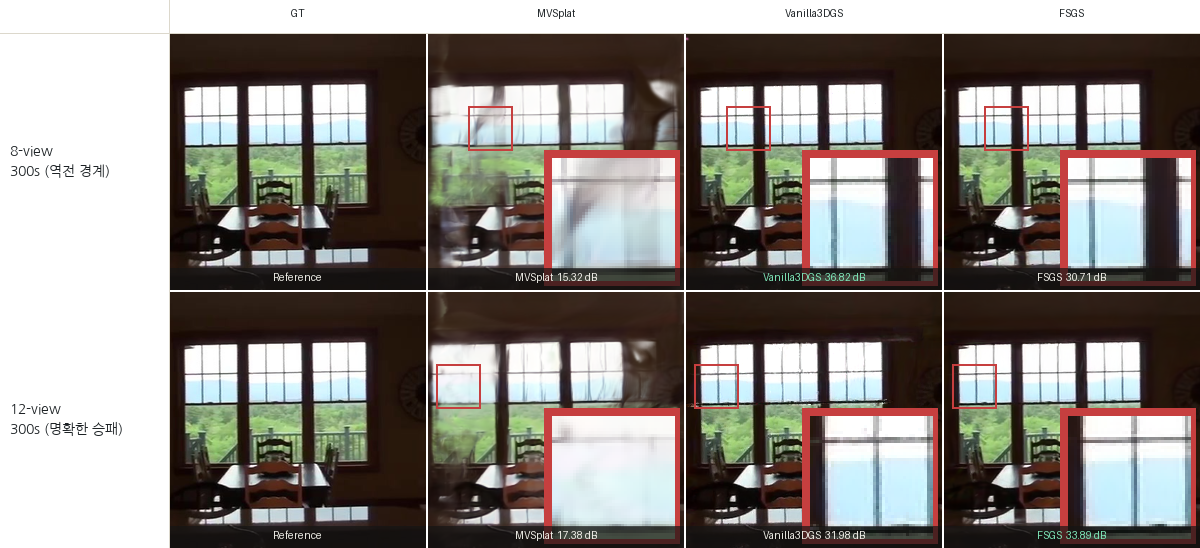
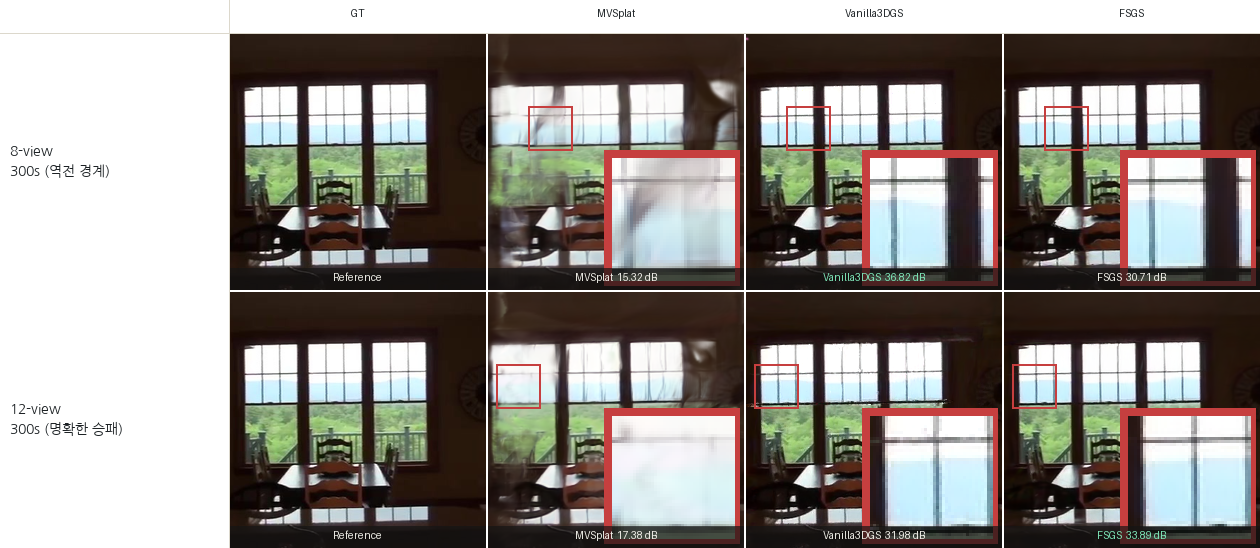
Extend qualitative comparison to DL3DV with ReSplat, merging it into the existing per-scene/feed-forward comparison
Adds a second qualitative figure (GT/DepthSplat/Vanilla3DGS/FSGS/ReSplat,
5 columns) on the same DL3DV scene/conditions used for the ReSplat
exploratory table, so the recurrent-refinement results sit visually
alongside the other four methods rather than existing only as aggregate
numbers. Reused the same target camera across all five renders (via a
saved camera.json) for a fair side-by-side; ReSplat's render required one
fresh cheap inference pass since the batch orchestrator only logged
scalar metrics, not images. Row-label column widened (170->230px) since
DL3DV's longer labels were clipping at the old width.

diff --git a/experiments/scripts/analysis/render_qualitative_dl3dv_resplat.py b/experiments/scripts/analysis/render_qualitative_dl3dv_resplat.py
@@ -1,0 +1,114 @@
+#!/usr/bin/env python3
+"""정성적 비교 그림(DL3DV)의 ReSplat 렌더 — `resplat` conda env에서 실행.
+
+`resplat_dl3dv_runner.py`와 같은 context view(v2 overlap summary)를 쓰되, target camera는
+`render_qualitative_dl3dv_gsplat.py`가 저장한 camera.json(=DepthSplat과 동일한 target)을
+그대로 써서 네 방법(DepthSplat/Vanilla3DGS/FSGS/ReSplat) 전부 같은 시점을 렌더링하게 만든다.
+ReSplat 추론 자체는 결정론적 단일 forward pass라 이것도 사실상 재실행 비용이 거의 없다
+(scene당 ~1.2초, `run_resplat_dl3dv.py`가 이미 계산한 것과 별개로 target camera만 다르게
+한 번 더 도는 것).
+"""
+
+from __future__ import annotations
+
+import argparse
+import json
+import sys
+from pathlib import Path
+
+import numpy as np
+import torch
+from PIL import Image
+
+REPO_ROOT = Path(__file__).resolve().parents[3]
+sys.path.insert(0, str(REPO_ROOT / "experiments/scripts/runners"))
+
+
+def save_png(tensor_chw: torch.Tensor, path: Path) -> None:
+    arr = (tensor_chw.clamp(0, 1).permute(1, 2, 0).detach().cpu().numpy() * 255).astype(np.uint8)
+    Image.fromarray(arr).save(path)
+
+
+def main() -> int:
+    parser = argparse.ArgumentParser()
+    parser.add_argument("--camera-json", required=True)
+    parser.add_argument("--overlap-summary", default="experiments/outputs/dl3dv_overlap_v2/all_scenes_summary.json")
+    parser.add_argument("--num-refine", type=int, default=4)
+    parser.add_argument("--checkpoint", default="/data/Re-feem/code/resplat/pretrained/resplat-base-dl3dv-256x448-view8-1934a04c.pth")
+    parser.add_argument("--resplat-repo", default="/data/Re-feem/code/resplat")
+    parser.add_argument("--out-dir", default="experiments/outputs/qualitative_comparison_dl3dv")
+    args = parser.parse_args()
+
+    import resplat_dl3dv_runner as R
+
+    resplat_repo = Path(args.resplat_repo)
+    R._add_repo_paths(resplat_repo)
+    device = torch.device("cuda" if torch.cuda.is_available() else "cpu")
+
+    cam_info = json.loads(Path(args.camera_json).read_text())
+    scene, view_count = cam_info["scene"], cam_info["view_count"]
+    width, height = cam_info["width"], cam_info["height"]
+    target_c2w = torch.tensor(cam_info["c2w"], dtype=torch.float32)
+    target_K = torch.tensor(cam_info["K_norm"], dtype=torch.float32)
+
+    overlap_data = json.loads(Path(args.overlap_summary).read_text())
+    row = next(r for r in overlap_data if r["scene"] == scene and r["view_count"] == view_count)
+    context_ids = row["context_indices"]
+
+    from dl3dv_dataset import load_metadata
+
+    scene_dir = Path("/data/Re-feem/datasets/dl3dv") / scene
+    meta = load_metadata(scene_dir)
+    context_images, context_c2w, context_K = R.load_frames(scene_dir, meta, context_ids)
+
+    Vc = len(context_ids)
+    all_c2w = torch.cat([context_c2w, target_c2w[None]], dim=0)
+    mid_idx = Vc // 2
+    all_c2w = R.camera_normalization(context_c2w[mid_idx : mid_idx + 1], all_c2w)
+    context_c2w_aligned = all_c2w[:Vc]
+    target_c2w_aligned = all_c2w[Vc:]
+
+    batch = {
+        "context": {
+            "image": context_images.unsqueeze(0).to(device),
+            "extrinsics": context_c2w_aligned.unsqueeze(0).to(device),
+            "intrinsics": context_K.unsqueeze(0).to(device),
+            "near": torch.full((1, Vc), R.NEAR, device=device),
+            "far": torch.full((1, Vc), R.FAR, device=device),
+            "index": torch.arange(Vc, device=device).unsqueeze(0),
+        },
+        "target": {
+            "extrinsics": target_c2w_aligned.unsqueeze(0).to(device),
+            "intrinsics": target_K.unsqueeze(0).unsqueeze(0).to(device),
+            "near": torch.full((1, 1), R.NEAR, device=device),
+            "far": torch.full((1, 1), R.FAR, device=device),
+        },
+        "scene": [scene],
+    }
+
+    encoder, decoder = R.build_model(resplat_repo, "dl3dv", args.checkpoint, args.num_refine, R.IMAGE_SHAPE, device)
+
+    with torch.no_grad():
+        gaussians_out = encoder(batch["context"], global_step=0, deterministic=False)
+        condition_features = gaussians_out.get("condition_features") if isinstance(gaussians_out, dict) else None
+        gaussians = gaussians_out["gaussians"] if isinstance(gaussians_out, dict) else gaussians_out
+        if args.num_refine > 0 and condition_features is not None:
+            refine_output = encoder.forward_update(
+                batch["context"], batch["target"], condition_features, gaussians, decoder, None,
+            )
+            gaussians = refine_output["gaussian"][-1]
+        output = decoder.forward(
+            gaussians, batch["target"]["extrinsics"], batch["target"]["intrinsics"],
+            batch["target"]["near"], batch["target"]["far"], R.IMAGE_SHAPE,
+        )
+
+    pred = output.color[0, 0].clamp(0, 1)
+    tag = f"{scene}_{view_count}view_{int(cam_info['budget'])}s"
+    out_dir = Path(args.out_dir)
+    save_png(pred, out_dir / f"{tag}_ReSplat.png")
+    print(f"[done] {tag}_ReSplat.png written")
+    return 0
+
+
+if __name__ == "__main__":
+    raise SystemExit(main())

diff --git a/experiments/scripts/analysis/render_qualitative_dl3dv_gsplat.py b/experiments/scripts/analysis/render_qualitative_dl3dv_gsplat.py
@@ -1,0 +1,114 @@
+#!/usr/bin/env python3
+"""정성적 비교 그림(DL3DV + ReSplat 확장판)의 GT/DepthSplat/Vanilla3DGS 3장을 만든다.
+
+`render_qualitative_gsplat.py`의 DL3DV 버전. `ps3` env에서 실행. 재실행 없음 — 이미 완료된
+C1-a 체크포인트만 다시 렌더링.
+"""
+
+from __future__ import annotations
+
+import argparse
+import json
+import math
+import sys
+from pathlib import Path
+
+import numpy as np
+import torch
+from PIL import Image
+
+sys.path.insert(0, str(Path(__file__).resolve().parents[1] / "core"))
+
+
+def save_png(tensor_chw: torch.Tensor, path: Path) -> None:
+    arr = (tensor_chw.clamp(0, 1).permute(1, 2, 0).cpu().numpy() * 255).astype(np.uint8)
+    Image.fromarray(arr).save(path)
+
+
+def render_gsplat(params: dict, viewmat: torch.Tensor, K: torch.Tensor, width: int, height: int, sh_degree: int) -> torch.Tensor:
+    from gsplat import rasterization
+
+    with torch.no_grad():
+        colors = torch.cat([params["sh0"], params["shN"]], dim=1)
+        render, _, _ = rasterization(
+            means=params["means"],
+            quats=params["quats"] / params["quats"].norm(dim=-1, keepdim=True),
+            scales=torch.exp(params["scales"]),
+            opacities=torch.sigmoid(params["opacities"]),
+            colors=colors,
+            viewmats=viewmat[None],
+            Ks=K[None],
+            width=width,
+            height=height,
+            sh_degree=sh_degree,
+            packed=False,
+        )
+    return render[0].permute(2, 0, 1).clamp(0.0, 1.0)
+
+
+def main() -> int:
+    parser = argparse.ArgumentParser()
+    parser.add_argument("--scene", required=True, help="DL3DV scene key(폴더명 hash)")
+    parser.add_argument("--view-count", type=int, required=True)
+    parser.add_argument("--budget", type=float, required=True)
+    parser.add_argument("--seed", type=int, default=0)
+    parser.add_argument("--target-index", type=int, default=0)
+    parser.add_argument("--c1a-root", default="experiments/outputs/dl3dv_c1a_main")
+    parser.add_argument("--out-dir", default="experiments/outputs/qualitative_comparison_dl3dv")
+    args = parser.parse_args()
+
+    device = torch.device("cuda" if torch.cuda.is_available() else "cpu")
+    c1a_root = Path(args.c1a_root)
+    tag = f"{args.scene}_{args.view_count}view_{int(args.budget)}s"
+    out_dir = Path(args.out_dir)
+    out_dir.mkdir(parents=True, exist_ok=True)
+
+    # --- 공용 target camera: DepthSplat render_reference.pt ---
+    ref = torch.load(c1a_root / "checkpoints" / args.scene / f"{args.view_count}view" / "render_reference.pt", map_location="cpu")
+    i = args.target_index
+    view_id = ref["view_ids"][i]
+    c2w = ref["extrinsics"][0, i]
+    K_norm = ref["intrinsics"][0, i]
+    h, w = ref["image_shape"]
+    w2c = torch.inverse(c2w)
+    K_pixel = K_norm.clone()
+    K_pixel[0, :] *= w
+    K_pixel[1, :] *= h
+
+    # --- GT ---
+    from dl3dv_dataset import load_metadata, load_views
+
+    scene_dir = Path("/data/Re-feem/datasets/dl3dv") / args.scene
+    meta = load_metadata(scene_dir)
+    gt_view = load_views(scene_dir, meta, [view_id], target_shape=(h, w))[0]
+    gt_tensor = torch.from_numpy(gt_view["image"]).permute(2, 0, 1).float()
+    save_png(gt_tensor, out_dir / f"{tag}_GT.png")
+
+    # --- DepthSplat: 이미 렌더된 pred 그대로 ---
+    save_png(ref["pred"][i], out_dir / f"{tag}_DepthSplat.png")
+
+    # --- Vanilla3DGS: budget 시점 checkpoint 다시 렌더링 ---
+    traj_path = c1a_root / "vanilla_runs" / args.scene / "logs" / f"dl3dv_{args.scene}_c1a_Vanilla3DGS_{args.view_count}view_seed{args.seed}.json"
+    trajectory = json.loads(traj_path.read_text())
+    row = next(r for r in trajectory if r["wall_clock"] == args.budget)
+    ckpt = torch.load(row["checkpoint_path"], map_location="cpu")
+    params = {k: v.to(device) for k, v in ckpt.items()}
+    d_sh = params["shN"].shape[1] + 1
+    sh_degree = round(math.sqrt(d_sh) - 1)
+    vanilla_render = render_gsplat(params, w2c.to(device), K_pixel.to(device), w, h, sh_degree)
+    save_png(vanilla_render, out_dir / f"{tag}_Vanilla3DGS.png")
+
+    # --- FSGS/ReSplat 렌더링용 camera 정보 저장 ---
+    camera_json = {
+        "scene": args.scene, "view_count": args.view_count, "budget": args.budget, "seed": args.seed,
+        "view_id": view_id, "width": w, "height": h,
+        "w2c": w2c.numpy().tolist(), "K_norm": K_norm.numpy().tolist(), "c2w": c2w.numpy().tolist(),
+    }
+    (out_dir / f"{tag}_camera.json").write_text(json.dumps(camera_json, indent=2))
+
+    print(f"[done] {tag}: GT/DepthSplat/Vanilla3DGS PNG + camera.json written to {out_dir}")
+    return 0
+
+
+if __name__ == "__main__":
+    raise SystemExit(main())

diff --git a/experiments/scripts/analysis/render_qualitative_dl3dv_fsgs.py b/experiments/scripts/analysis/render_qualitative_dl3dv_fsgs.py
@@ -1,0 +1,78 @@
+#!/usr/bin/env python3
+"""정성적 비교 그림(DL3DV)의 FSGS 렌더 — `fsgs` conda env에서 실행. 재실행 없음."""
+
+from __future__ import annotations
+
+import argparse
+import json
+import sys
+from pathlib import Path
+from types import SimpleNamespace
+
+import numpy as np
+import torch
+from PIL import Image
+
+
+def save_png(tensor_chw: torch.Tensor, path: Path) -> None:
+    arr = (tensor_chw.clamp(0, 1).permute(1, 2, 0).detach().cpu().numpy() * 255).astype(np.uint8)
+    Image.fromarray(arr).save(path)
+
+
+def main() -> int:
+    parser = argparse.ArgumentParser()
+    parser.add_argument("--camera-json", required=True)
+    parser.add_argument("--seed", type=int, default=0)
+    parser.add_argument("--c1a-root", default="experiments/outputs/dl3dv_c1a_main")
+    parser.add_argument("--fsgs-repo", default="/data/Re-feem/code/fsgs")
+    parser.add_argument("--out-dir", default="experiments/outputs/qualitative_comparison_dl3dv")
+    args = parser.parse_args()
+
+    sys.path.insert(0, str(Path(args.fsgs_repo).resolve()))
+    from utils.graphics_utils import focal2fov
+    from scene.cameras import PseudoCamera
+    from scene.gaussian_model import GaussianModel
+    from gaussian_renderer import render
+    from arguments import PipelineParams
+    import argparse as _argparse
+
+    cam_info = json.loads(Path(args.camera_json).read_text())
+    scene, view_count, budget, seed = cam_info["scene"], cam_info["view_count"], cam_info["budget"], args.seed
+    width, height = cam_info["width"], cam_info["height"]
+    w2c = np.array(cam_info["w2c"])
+    K_norm = np.array(cam_info["K_norm"])
+
+    R = w2c[:3, :3].T
+    T = w2c[:3, 3]
+    fx_pixel, fy_pixel = K_norm[0, 0] * width, K_norm[1, 1] * height
+    FoVx = focal2fov(fx_pixel, width)
+    FoVy = focal2fov(fy_pixel, height)
+
+    device = torch.device("cuda")
+    cam = PseudoCamera(R=R, T=T, FoVx=FoVx, FoVy=FoVy, width=width, height=height)
+
+    c1a_root = Path(args.c1a_root)
+    traj_path = c1a_root / "fsgs_runs" / scene / "logs" / f"dl3dv_{scene}_c1a_FSGS_{view_count}view_seed{seed}.json"
+    trajectory = json.loads(traj_path.read_text())
+    row = next(r for r in trajectory if r["wall_clock"] == budget)
+
+    parser_fsgs = _argparse.ArgumentParser()
+    pp = PipelineParams(parser_fsgs)
+    pipe = pp.extract(parser_fsgs.parse_args([]))
+
+    gaussians = GaussianModel(SimpleNamespace(sh_degree=3))
+    gaussians.load_ply(row["checkpoint_path"])
+    background = torch.tensor([0.0, 0.0, 0.0], dtype=torch.float32, device=device)
+
+    with torch.no_grad():
+        image = render(cam, gaussians, pipe, background)["render"]
+
+    tag = f"{scene}_{view_count}view_{int(budget)}s"
+    out_dir = Path(args.out_dir)
+    save_png(image, out_dir / f"{tag}_FSGS.png")
+    print(f"[done] {tag}_FSGS.png written")
+    return 0
+
+
+if __name__ == "__main__":
+    raise SystemExit(main())

diff --git a/experiments/docs/paper/overleaf_draft/main.tex b/experiments/docs/paper/overleaf_draft/main.tex
@@ -350,6 +350,13 @@ view\_count & ReSplat & DepthSplat & FSGS & Vanilla3DGS \\
 
 Gaussian 수는 view당 DepthSplat의 약 1/16(8-view: 57{,}344 대 917{,}504) 수준으로, ReSplat README가 밝힌 설계(subsampled space 예측)가 실측으로도 확인된다. 다만 peak VRAM은 Gaussian 수만큼 줄지 않는다(recurrent 반복 forward pass 비용).
 
+\begin{figure}[h]
+\centering
+\includegraphics[width=\textwidth]{figures/qualitative_comparison_dl3dv_resplat.png}
+\caption{DL3DV scene(§4.2 in-domain 체크포인트 매칭 원칙에 따라 DepthSplat/ReSplat 모두 이 데이터셋으로 학습된 체크포인트 사용)에서 GT/DepthSplat/Vanilla3DGS/FSGS/ReSplat 5개 방법 정성적 비교, budget=300\,s. 위 행은 8-view(ReSplat의 진짜 in-domain 지점, ReSplat이 27.99\,dB로 4개 방법 중 최고), 아래 행은 12-view(FSGS가 30.26\,dB로 최고). 확대 영역(빨간 박스)에서 DepthSplat의 구조물 경계 흐림이 가장 두드러지며, ReSplat은 같은 계보의 DepthSplat보다 뚜렷이 선명하지만 8-view에서도 FSGS와 근소한 차이, 12-view에서는 FSGS에 못 미친다 — 표~\ref{tab:resplat-exploratory}의 수치와 일관된다.}
+\label{fig:qualitative-dl3dv-resplat}
+\end{figure}
+
 % =====================================================================
 \section{실패 분석}
 \label{sec:failure}

diff --git a/experiments/scripts/analysis/assemble_qualitative_figure.py b/experiments/scripts/analysis/assemble_qualitative_figure.py
@@ -16,7 +16,7 @@ import numpy as np
 from PIL import Image, ImageDraw, ImageFont, ImageOps
 
 LABEL_H = 34
-ROW_LABEL_W = 170
+ROW_LABEL_W = 230
 GRID = "#dcd8cc"
 INK = "#1d2225"
 ACCENT = "#0d6e68"
